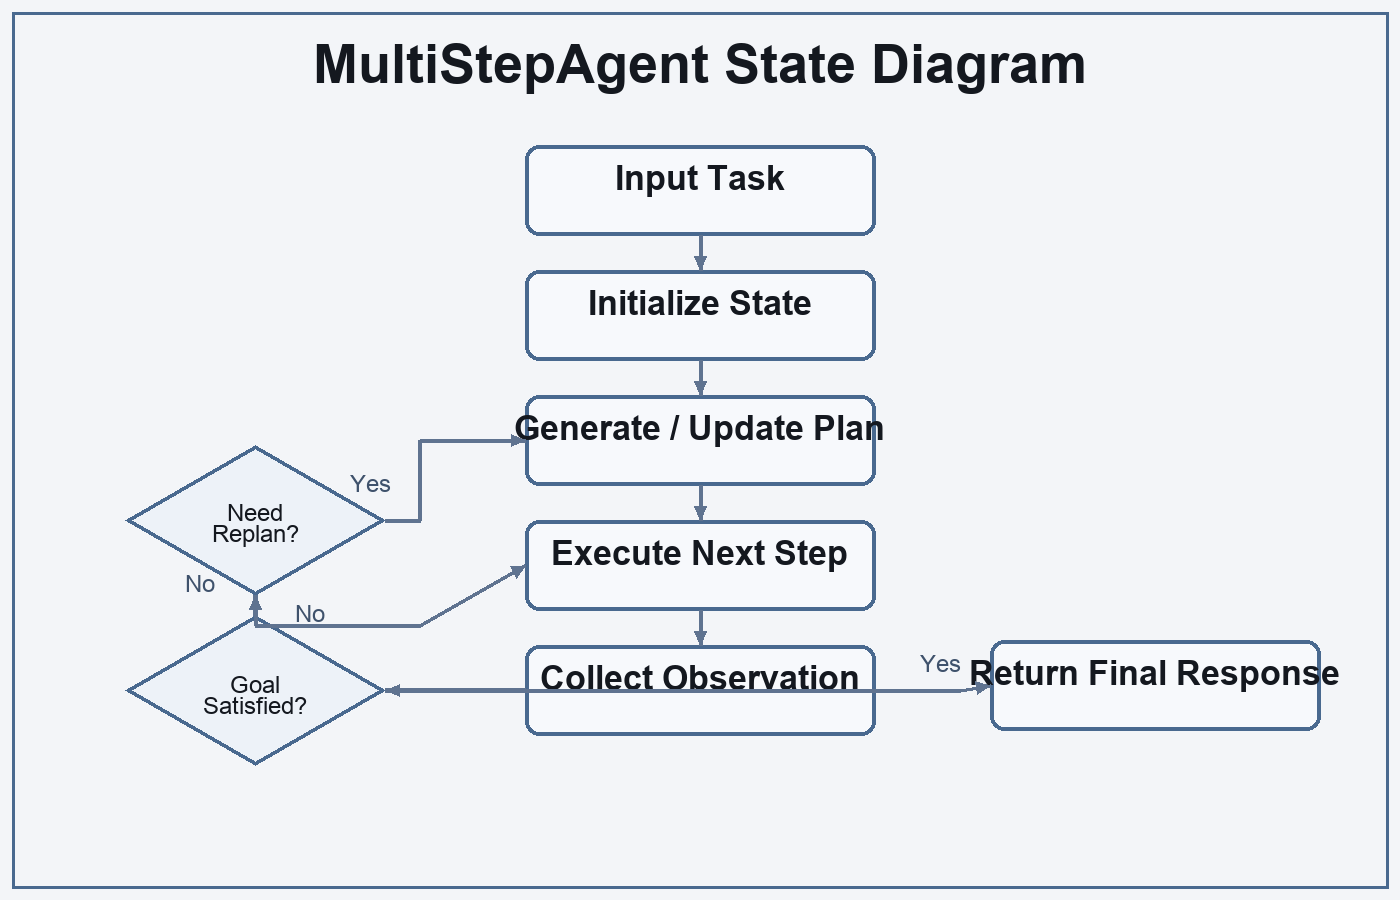
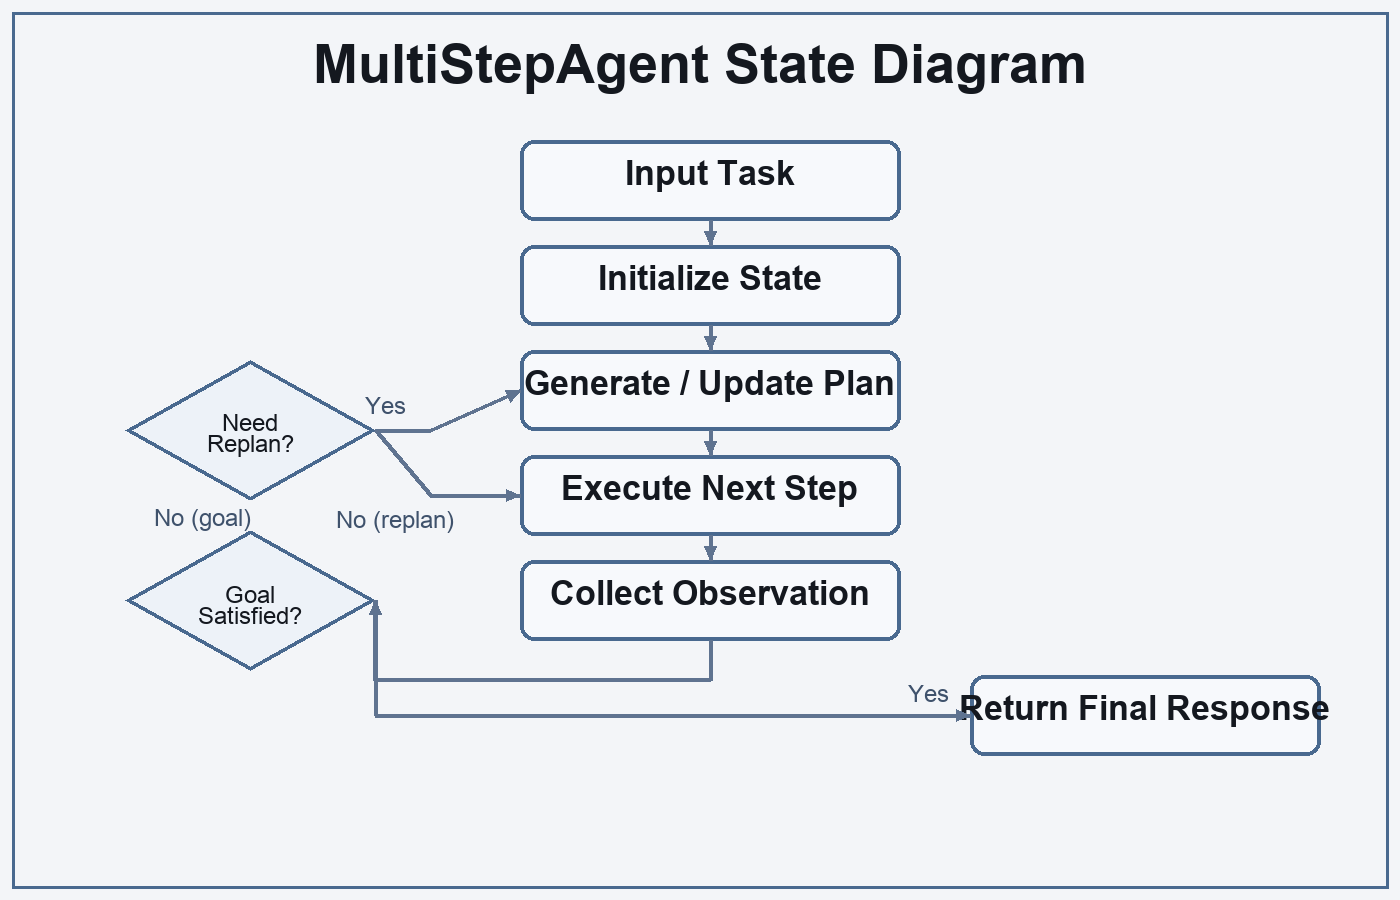
Clean diagram layouts and restore survey method flow figure

diff --git a/paper.html b/paper.html
@@ -550,6 +550,10 @@
         <p>Selection-flow and extraction artifacts are provided in Appendix D and Appendix E to support reproducibility and peer-review traceability.</p>
 
         <h3>0.3 Study Selection Flow</h3>
+        <figure class="diagram-container">
+            <img class="diagram-fallback" src="./assets/diagram_survey_method.png" alt="Survey method flow diagram for frozen run">
+            <figcaption class="diagram-caption">Figure 0.3-1. Survey method flow for frozen run TOT-HF-SURVEY-2026-02-19 (seeded corpus to screened and included records).</figcaption>
+        </figure>
         <table>
             <thead>
                 <tr>

diff --git a/submission/render_manuscript_diagrams.py b/submission/render_manuscript_diagrams.py
@@ -6,6 +6,7 @@ This script regenerates:
   - assets/diagram_multistep_state.png
   - assets/diagram_tool_flow.png
   - assets/diagram_tot_agent.png
+  - assets/diagram_survey_method.png
 """
 
 from __future__ import annotations
@@ -93,16 +94,20 @@ def draw_box(
     x0, y0, x1, y1 = rect
     draw.rounded_rectangle(rect, radius=14, fill=COLORS["box_fill"], outline=COLORS["box_border"], width=4)
 
-    t_w, t_h = text_size(draw, title, BOX_TITLE_FONT)
-    title_x = x0 + (x1 - x0 - t_w) // 2
-    title_y = y0 + 14
-    draw.text((title_x, title_y), title, fill=COLORS["title"], font=BOX_TITLE_FONT)
+    title_rows = title.split("\n")
+    title_sizes = [text_size(draw, row, BOX_TITLE_FONT) for row in title_rows]
+    title_h = sum(h for _, h in title_sizes) + (len(title_rows) - 1) * 4
+    y = y0 + 14
+    for row, (tw, th) in zip(title_rows, title_sizes):
+        title_x = x0 + (x1 - x0 - tw) // 2
+        draw.text((title_x, y), row, fill=COLORS["title"], font=BOX_TITLE_FONT)
+        y += th + 4
 
     if not lines:
         return
 
     _, line_h = text_size(draw, "Ag", BOX_TEXT_FONT)
-    y = title_y + t_h + 12
+    y += 8
     for line in lines:
         draw.text((x0 + 16, y), f"- {line}", fill=COLORS["muted"], font=BOX_TEXT_FONT)
         y += line_h + 8
@@ -154,6 +159,29 @@ def draw_arrow_head(
     p2 = (x1 - int(length * math.cos(angle - spread)), y1 - int(length * math.sin(angle - spread)))
     p3 = (x1 - int(length * math.cos(angle + spread)), y1 - int(length * math.sin(angle + spread)))
     draw.polygon([p1, p2, p3], fill=COLORS["line"], outline=COLORS["line"])
+
+
+def draw_label(
+    draw: ImageDraw.ImageDraw,
+    pos: Tuple[int, int],
+    text: str,
+    align: str = "left",
+) -> None:
+    tw, th = text_size(draw, text, BOX_TEXT_FONT)
+    x, y = pos
+    if align == "center":
+        x -= tw // 2
+    elif align == "right":
+        x -= tw
+    pad_x = 8
+    pad_y = 4
+    draw.rounded_rectangle(
+        [(x - pad_x, y - pad_y), (x + tw + pad_x, y + th + pad_y)],
+        radius=6,
+        fill=COLORS["page"],
+        outline=None,
+    )
+    draw.text((x, y), text, fill=COLORS["muted"], font=BOX_TEXT_FONT)
 
 
 def center(rect: Tuple[int, int, int, int]) -> Tuple[int, int]:
@@ -214,12 +242,12 @@ def render_multistep_state() -> None:
     img, draw = new_canvas()
     draw_title(draw, "MultiStepAgent State Diagram")
 
-    input_box = (525, 145, 875, 235)
-    init_box = (525, 270, 875, 360)
-    plan_box = (525, 395, 875, 485)
-    step_box = (525, 520, 875, 610)
-    obs_box = (525, 645, 875, 735)
-    out_box = (990, 640, 1320, 730)
+    input_box = (520, 140, 900, 220)
+    init_box = (520, 245, 900, 325)
+    plan_box = (520, 350, 900, 430)
+    step_box = (520, 455, 900, 535)
+    obs_box = (520, 560, 900, 640)
+    out_box = (970, 675, 1320, 755)
 
     draw_box(draw, input_box, "Input Task")
     draw_box(draw, init_box, "Initialize State")
@@ -228,41 +256,39 @@ def render_multistep_state() -> None:
     draw_box(draw, obs_box, "Collect Observation")
     draw_box(draw, out_box, "Return Final Response")
 
-    goal_c = (255, 690)
-    replan_c = (255, 520)
-    draw_diamond(draw, goal_c[0], goal_c[1], 260, 150, "Goal\nSatisfied?")
-    draw_diamond(draw, replan_c[0], replan_c[1], 260, 150, "Need\nReplan?")
+    goal_c = (250, 600)
+    replan_c = (250, 430)
+    draw_diamond(draw, goal_c[0], goal_c[1], 250, 140, "Goal\nSatisfied?")
+    draw_diamond(draw, replan_c[0], replan_c[1], 250, 140, "Need\nReplan?")
 
     draw_polyline(draw, [bottom(input_box), top(init_box)])
     draw_polyline(draw, [bottom(init_box), top(plan_box)])
     draw_polyline(draw, [bottom(plan_box), top(step_box)])
     draw_polyline(draw, [bottom(step_box), top(obs_box)])
 
-    draw_polyline(draw, [left(obs_box), (410, 690), (goal_c[0] + 130, goal_c[1])], arrow=False)
-    draw_arrow_head(draw, (410, 690), (goal_c[0] + 130, goal_c[1]))
+    # Observation -> Goal check (route below box to avoid crossing text)
+    goal_right = (goal_c[0] + 125, goal_c[1])
+    draw_polyline(draw, [bottom(obs_box), (bottom(obs_box)[0], 680), (goal_right[0], 680), goal_right], arrow=False)
+    draw_arrow_head(draw, (goal_right[0], 680), goal_right)
 
-    draw_polyline(draw, [(goal_c[0], goal_c[1] - 75), (goal_c[0], replan_c[1] + 75)])
-    draw.text((295, 600), "No", fill=COLORS["muted"], font=BOX_TEXT_FONT)
+    # Goal yes -> return final (kept below observation box)
+    draw_polyline(draw, [goal_right, (goal_right[0], 715), (940, 715), left(out_box)], arrow=False)
+    draw_arrow_head(draw, (940, 715), left(out_box))
+    draw_label(draw, (928, 680), "Yes", align="center")
 
-    draw_polyline(draw, [(goal_c[0] + 130, goal_c[1]), (960, 690), left(out_box)], arrow=False)
-    draw_arrow_head(draw, (960, 690), left(out_box))
-    draw.text((920, 650), "Yes", fill=COLORS["muted"], font=BOX_TEXT_FONT)
+    # Goal no -> replan decision
+    draw_polyline(draw, [(goal_c[0], goal_c[1] - 70), (goal_c[0], replan_c[1] + 70)])
+    draw_label(draw, (154, 504), "No (goal)")
 
-    draw_polyline(
-        draw,
-        [(replan_c[0] + 130, replan_c[1]), (420, 520), (420, 440), left(plan_box)],
-        arrow=False,
-    )
-    draw_arrow_head(draw, (420, 440), left(plan_box))
-    draw.text((350, 470), "Yes", fill=COLORS["muted"], font=BOX_TEXT_FONT)
+    # Replan yes -> plan
+    draw_polyline(draw, [(replan_c[0] + 125, replan_c[1]), (430, 430), left(plan_box)], arrow=False)
+    draw_arrow_head(draw, (430, 430), left(plan_box))
+    draw_label(draw, (365, 392), "Yes")
 
-    draw_polyline(
-        draw,
-        [(replan_c[0], replan_c[1] + 75), (255, 625), (420, 625), left(step_box)],
-        arrow=False,
-    )
-    draw_arrow_head(draw, (420, 625), left(step_box))
-    draw.text((185, 570), "No", fill=COLORS["muted"], font=BOX_TEXT_FONT)
+    # Replan no -> execute step
+    draw_polyline(draw, [(replan_c[0] + 125, replan_c[1]), (430, 495), left(step_box)], arrow=False)
+    draw_arrow_head(draw, (430, 495), left(step_box))
+    draw_label(draw, (336, 506), "No (replan)")
 
     img.save(ASSETS / "diagram_multistep_state.png", optimize=True)
 
@@ -271,12 +297,12 @@ def render_tool_flow() -> None:
     img, draw = new_canvas()
     draw_title(draw, "Tool-Augmented LLM Flow")
 
-    query_box = (60, 345, 300, 455)
-    reason_box = (350, 345, 720, 455)
-    select_box = (900, 185, 1250, 295)
-    exec_box = (900, 330, 1250, 440)
-    obs_box = (900, 475, 1250, 585)
-    answer_box = (900, 620, 1250, 730)
+    query_box = (50, 340, 290, 440)
+    reason_box = (340, 340, 650, 440)
+    select_box = (890, 170, 1240, 270)
+    exec_box = (890, 315, 1240, 415)
+    obs_box = (890, 460, 1240, 560)
+    answer_box = (890, 605, 1240, 705)
 
     draw_box(draw, query_box, "User Query")
     draw_box(draw, reason_box, "LLM Reasoning Step")
@@ -285,33 +311,41 @@ def render_tool_flow() -> None:
     draw_box(draw, obs_box, "Tool Observation")
     draw_box(draw, answer_box, "Generate Final Answer")
 
-    need_center = (790, 400)
+    need_center = (760, 390)
     draw_diamond(draw, need_center[0], need_center[1], 220, 130, "Need\nTool?")
 
     draw_polyline(draw, [right(query_box), left(reason_box)])
-    draw_polyline(draw, [right(reason_box), (680, 400)], arrow=False)
-    draw_polyline(draw, [(680, 400), (need_center[0] - 110, need_center[1])], arrow=False)
-    draw_arrow_head(draw, (680, 400), (need_center[0] - 110, need_center[1]))
+    draw_polyline(draw, [right(reason_box), (need_center[0] - 110, need_center[1])])
 
-    draw_polyline(draw, [(need_center[0] + 110, need_center[1]), (860, 400), (860, 240), left(select_box)], arrow=False)
-    draw_arrow_head(draw, (860, 240), left(select_box))
-    draw.text((836, 288), "Yes", fill=COLORS["muted"], font=BOX_TEXT_FONT)
+    draw_polyline(
+        draw,
+        [(need_center[0] + 110, need_center[1]), (850, 390), (850, 220), left(select_box)],
+        arrow=False,
+    )
+    draw_arrow_head(draw, (850, 220), left(select_box))
+    draw_label(draw, (820, 288), "Yes")
 
     draw_polyline(draw, [bottom(select_box), top(exec_box)])
     draw_polyline(draw, [bottom(exec_box), top(obs_box)])
     draw_polyline(draw, [bottom(obs_box), top(answer_box)])
 
+    # No-tool shortcut to final answer
     draw_polyline(
         draw,
-        [left(obs_box), (860, 530), (860, 505), (560, 505), (560, 455), bottom(reason_box)],
+        [(need_center[0], need_center[1] + 65), (760, 655), left(answer_box)],
         arrow=False,
     )
-    draw_arrow_head(draw, (560, 505), (560, 455))
-    draw.text((650, 514), "Observation Loop", fill=COLORS["muted"], font=BOX_TEXT_FONT)
+    draw_arrow_head(draw, (760, 655), left(answer_box))
+    draw_label(draw, (730, 592), "No")
 
-    draw_polyline(draw, [(need_center[0], need_center[1] + 65), (790, 675), left(answer_box)], arrow=False)
-    draw_arrow_head(draw, (790, 675), left(answer_box))
-    draw.text((745, 618), "No", fill=COLORS["muted"], font=BOX_TEXT_FONT)
+    # Observation loop back to reasoning
+    draw_polyline(
+        draw,
+        [left(obs_box), (840, 510), (840, 485), (520, 485), (520, 440), bottom(reason_box)],
+        arrow=False,
+    )
+    draw_arrow_head(draw, (520, 485), (520, 440))
+    draw_label(draw, (670, 494), "Observation Loop", align="center")
 
     img.save(ASSETS / "diagram_tool_flow.png", optimize=True)
 
@@ -320,13 +354,13 @@ def render_tot_agent() -> None:
     img, draw = new_canvas()
     draw_title(draw, "ToT-Enhanced Agent")
 
-    thought = (90, 165, 430, 285)
+    thought = (80, 165, 420, 285)
     evaluate = (530, 165, 870, 285)
-    select = (970, 165, 1310, 285)
-    memory = (530, 330, 870, 450)
-    action = (140, 530, 480, 670)
-    tools = (920, 530, 1260, 670)
-    feedback = (530, 725, 870, 845)
+    select = (980, 165, 1320, 285)
+    memory = (530, 335, 870, 445)
+    action = (140, 545, 500, 665)
+    tools = (900, 545, 1260, 665)
+    feedback = (530, 730, 870, 840)
 
     draw_box(draw, thought, "Thought Generation")
     draw_box(draw, evaluate, "Evaluate States")
@@ -336,37 +370,68 @@ def render_tot_agent() -> None:
     draw_box(draw, tools, "Tool Execution")
     draw_box(draw, feedback, "Observation Feedback")
 
-    draw_polyline(draw, [right(thought), left(evaluate)], arrow=False)
-    draw_polyline(draw, [right(evaluate), left(select)], arrow=False)
+    # Top reasoning chain
+    draw_polyline(draw, [right(thought), left(evaluate)])
+    draw_polyline(draw, [right(evaluate), left(select)])
 
-    t_bottom = bottom(thought)
-    s_bottom = bottom(select)
-    m_left = left(memory)
-    m_right = right(memory)
-    draw_polyline(draw, [t_bottom, (t_bottom[0], 300), (m_left[0], 300), (m_left[0], m_left[1])], arrow=False)
-    draw_polyline(draw, [s_bottom, (s_bottom[0], 300), (m_right[0], 300), (m_right[0], m_right[1])], arrow=False)
+    # Thought/select contribute to memory
+    mem_top_left = (590, memory[1])
+    mem_top_right = (810, memory[1])
+    draw_polyline(draw, [bottom(thought), (bottom(thought)[0], 315), (mem_top_left[0], 315), mem_top_left], arrow=False)
+    draw_arrow_head(draw, (mem_top_left[0], 315), mem_top_left)
+    draw_polyline(draw, [bottom(select), (bottom(select)[0], 315), (mem_top_right[0], 315), mem_top_right], arrow=False)
+    draw_arrow_head(draw, (mem_top_right[0], 315), mem_top_right)
 
-    m_bottom = bottom(memory)
-    a_top = top(action)
-    t_top = top(tools)
-    draw_polyline(draw, [m_bottom, (m_bottom[0], 500)], arrow=False)
-    draw_polyline(draw, [(m_bottom[0], 500), (a_top[0], 500), a_top], arrow=False)
-    draw_polyline(draw, [(m_bottom[0], 500), (t_top[0], 500), t_top], arrow=False)
+    # Memory dispatches plans/tools
+    draw_polyline(draw, [bottom(memory), (700, 500), (top(action)[0], 500), top(action)], arrow=False)
+    draw_arrow_head(draw, (top(action)[0], 500), top(action))
+    draw_polyline(draw, [bottom(memory), (700, 500), (top(tools)[0], 500), top(tools)], arrow=False)
+    draw_arrow_head(draw, (top(tools)[0], 500), top(tools))
 
-    a_right = right(action)
-    t_left = left(tools)
-    draw_polyline(draw, [a_right, (t_left[0], a_right[1])], arrow=False)
+    # Planning and execution interaction
+    draw_polyline(draw, [right(action), left(tools)])
 
-    fb_top = top(feedback)
-    a_bottom = bottom(action)
-    t_bottom2 = bottom(tools)
-    draw_polyline(draw, [a_bottom, (a_bottom[0], 695), (fb_top[0], 695), fb_top], arrow=False)
-    draw_polyline(draw, [t_bottom2, (t_bottom2[0], 695), (fb_top[0], 695), fb_top], arrow=False)
-    draw_polyline(draw, [(700, a_right[1]), (700, fb_top[1])], arrow=False)
+    # Both feed observations
+    draw_polyline(draw, [bottom(action), (bottom(action)[0], 700), (top(feedback)[0] - 120, 700), (top(feedback)[0] - 120, top(feedback)[1])], arrow=False)
+    draw_arrow_head(draw, (top(feedback)[0] - 120, 700), (top(feedback)[0] - 120, top(feedback)[1]))
+    draw_polyline(draw, [bottom(tools), (bottom(tools)[0], 700), (top(feedback)[0] + 120, 700), (top(feedback)[0] + 120, top(feedback)[1])], arrow=False)
+    draw_arrow_head(draw, (top(feedback)[0] + 120, 700), (top(feedback)[0] + 120, top(feedback)[1]))
 
-    draw_polyline(draw, [bottom(feedback), (700, 680), (700, 450), top(memory)], arrow=False)
+    # Feedback loop to memory (via left margin to avoid crossing labels)
+    draw_polyline(draw, [left(feedback), (90, left(feedback)[1]), (90, 390), left(memory)], arrow=False)
+    draw_arrow_head(draw, (90, 390), left(memory))
 
     img.save(ASSETS / "diagram_tot_agent.png", optimize=True)
+
+
+def render_survey_method() -> None:
+    img, draw = new_canvas()
+    draw_title(draw, "Survey Method Flow (Frozen Run)")
+
+    note_box = (220, 130, 1180, 225)
+    step1 = (450, 270, 890, 365)
+    step2 = (450, 395, 890, 490)
+    step3 = (450, 520, 890, 615)
+    step4 = (450, 645, 890, 740)
+    excl = (950, 505, 1320, 655)
+
+    draw_box(draw, note_box, "Seeded Corpus\n(Pre-Curated ToT+Agent Scope)")
+    draw_box(draw, step1, "Records Identified\nn = 30")
+    draw_box(draw, step2, "Title/Abstract Screened\nn = 30")
+    draw_box(draw, step3, "Full-Text Assessed\nn = 30")
+    draw_box(draw, step4, "Studies Included in Synthesis\nn = 22")
+    draw_box(draw, excl, "Full-Text Exclusions\nn = 8", ["Out of scope / method fit", "Insufficient extraction detail"])
+
+    draw_polyline(draw, [bottom(note_box), top(step1)])
+    draw_polyline(draw, [bottom(step1), top(step2)])
+    draw_polyline(draw, [bottom(step2), top(step3)])
+    draw_polyline(draw, [bottom(step3), top(step4)])
+    draw_polyline(draw, [right(step3), left(excl)])
+
+    draw_label(draw, (920, 542), "excluded", align="center")
+    draw_label(draw, (362, 244), "duplicates removed: 0")
+
+    img.save(ASSETS / "diagram_survey_method.png", optimize=True)
 
 
 def main() -> None:
@@ -375,6 +440,7 @@ def main() -> None:
     render_multistep_state()
     render_tool_flow()
     render_tot_agent()
+    render_survey_method()
     print("Rendered manuscript-style diagram PNGs in assets/.")
 
 

diff --git a/submission/arxiv/main.tex b/submission/arxiv/main.tex
@@ -349,6 +349,14 @@ Appendix E to support reproducibility and peer-review traceability.
 
 \subsubsection{0.3 Study Selection Flow}\label{study-selection-flow}
 
+\begin{figure}
+\centering
+\pandocbounded{\includegraphics[keepaspectratio,alt={Survey method flow diagram for frozen run}]{./assets/diagram_survey_method.png}}
+\caption{Figure 0.3-1. Survey method flow for frozen run
+TOT-HF-SURVEY-2026-02-19 (seeded corpus to screened and included
+records).}
+\end{figure}
+
 {\def\LTcaptype{none} % do not increment counter
 \begin{longtable}[]{@{}ll@{}}
 \toprule\noalign{}

diff --git a/tot-hf-agents-llm.md b/tot-hf-agents-llm.md
@@ -104,6 +104,11 @@ Selection-flow and extraction artifacts are provided in Appendix D and Appendix 
 
 ### 0.3 Study Selection Flow
 
+<figure class="diagram-container">
+<img src="./assets/diagram_survey_method.png" class="diagram-fallback" alt="Survey method flow diagram for frozen run" />
+<figcaption>Figure 0.3-1. Survey method flow for frozen run TOT-HF-SURVEY-2026-02-19 (seeded corpus to screened and included records).</figcaption>
+</figure>
+
 | Stage                              | Count |
 |------------------------------------|-------|
 | Records identified                 | 30    |
